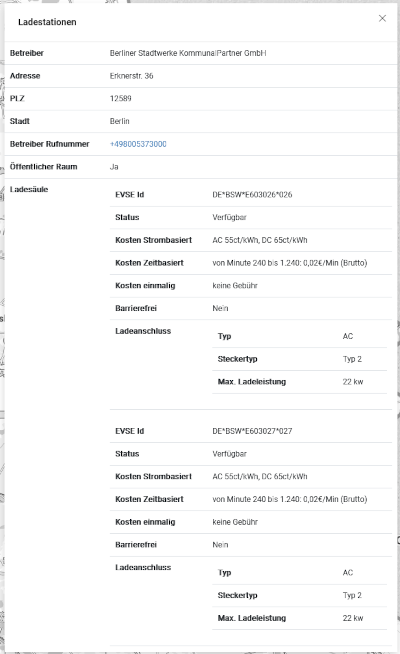
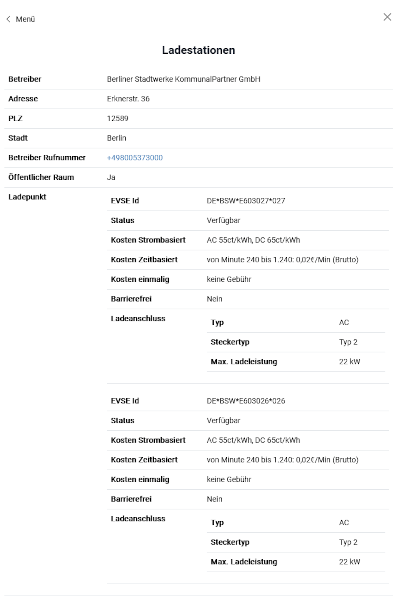
Version 3.x

diff --git a/gfiThemes/complexObject/components/ComplexObject.vue b/gfiThemes/complexObject/components/ComplexObject.vue
@@ -1,14 +1,28 @@
 <script>
-import CompareFeatureIcon from "../../../../src/modules/tools/gfi/components/favoriteIcons/components/CompareFeatureIcon.vue";
-import {getPropertiesWithFullKeys} from "../../../../src/modules/tools/gfi/utils/getPropertiesWithFullKeys.js";
-import {mapAttributes} from "../utils/attributeMapper";
+import beautifyKey from "../../../../src/shared/js/utils/beautifyKey.js";
+import {isImage, isWebLink} from "../../../../src/shared/js/utils/urlHelper.js";
+import {translateKeyWithPlausibilityCheck} from "../../../../src/shared/js/utils/translateKeyWithPlausibilityCheck.js";
+import {isPhoneNumber, getPhoneNumberAsWebLink} from "../../../../src/shared/js/utils/isPhoneNumber.js";
+import {isEmailAddress} from "../../../../src/shared/js/utils/isEmailAddress.js";
+import {isHTML} from "../../../../src/shared/js/utils/isHTML.js";
+import {getPropertiesWithFullKeys} from "../js/getPropertiesWithFullKeys.js";
 import ComplexObjectTable from "./ComplexObjectTable.vue";
+import {mapAttributes} from "../utils/attributeMapper";
 
+/**
+ * The default theme for the get feature info.
+ * @module modules/getFeatureInfo/themes/default/components/DefaultTheme
+ * @vue-prop {Object} feature - The required feature.
+ * @vue-data {Object[]} importedComponents - The imported gfi themes.
+ * @vue-data {Boolean} [showFavoriteIcons=true] - Show favorite icons.
+ * @vue-data {Boolean} [beautifyKeysParam=true] - Specifies if the keys should be displayed more nicely, like first letter cap.
+ * @vue-data {Boolean} [showObjectKeysParam=false] - Show objects key params.
+ * @vue-computed {String} mimeType - Returns the mimeType of the gfi feature
+ */
 export default {
     name: "ComplexObject",
     components: {
-        ComplexObjectTable,
-        CompareFeatureIcon
+        ComplexObjectTable
     },
     props: {
         feature: {
@@ -18,21 +32,25 @@ export default {
     },
     data: () => {
         return {
-            imageLinks: ["bildlink", "link_bild", "Bild", "bild"],
             importedComponents: [],
             showFavoriteIcons: true,
-            maxWidth: "600px",
             beautifyKeysParam: true,
             showObjectKeysParam: false
         };
     },
     computed: {
-
+        /**
+         * Returns the mimeType of the gfi feature.
+         * @returns {String} The mimeType.
+         */
+        mimeType: function () {
+            return this.feature.getMimeType();
+        }
     },
     watch: {
         feature () {
             this.$nextTick(() => {
-                this.setMaxWidth(this.feature.getTheme()?.params);
+                this.addTextHtmlContentToIframe();
                 this.initParams(this.feature.getTheme()?.params);
             });
         }
@@ -41,16 +59,24 @@ export default {
         this.showFavoriteIcons = this.feature.getTheme()?.params?.showFavoriteIcons ?
             this.feature.getTheme().params.showFavoriteIcons : this.showFavoriteIcons;
 
-        this.replacesConfiguredImageLinks();
         this.setImportedComponents();
     },
     mounted () {
         this.$nextTick(() => {
-            this.setMaxWidth(this.feature.getTheme()?.params);
+            this.addTextHtmlContentToIframe();
             this.initParams(this.feature.getTheme()?.params);
         });
     },
     methods: {
+        beautifyKey,
+        isWebLink,
+        isImage,
+        isPhoneNumber,
+        getPhoneNumberAsWebLink,
+        isEmailAddress,
+        isHTML,
+        translateKeyWithPlausibilityCheck,
+
         /**
          * checks if given feature has a function getMappedProperties
          * @param {Object} feature the current feature to check
@@ -60,6 +86,21 @@ export default {
             return typeof feature === "object" && feature !== null && typeof feature.getMappedProperties === "function";
         },
 
+        /**
+         * checks if the given feature has one or more mapped properties
+         * @param {Object} feature the current feature to check
+         * @returns {Boolean} returns true if feature has mapped properties
+         */
+        hasMappedProperties (feature) {
+            return Object.keys(feature.getMappedProperties()).length !== 0;
+        },
+        /**
+         * @param {String} value string to check.
+         * @returns {Boolean} whether the given value includes a pipe.
+         */
+        hasPipe: function (value) {
+            return typeof value === "string" && value.includes("|");
+        },
         /**
          * returns the mapped properties of the given feature or parses the properites through getPropertiesWithFullKeys if the component flag showObjectKeysParam is set
          * @param {Object} feature the current feature
@@ -113,26 +154,32 @@ export default {
         },
 
         /**
-         * Replaces  the configured imageLinks from the gfiTheme.params to the imageLinks.
+         * Adds the text/html content to the iframe.
+         * The onLoad event of the iframe starts with the execution of close().
          * @returns {void}
          */
-        replacesConfiguredImageLinks: function () {
-            const imageLinksAttribute = this.feature.getTheme()?.params?.imageLinks;
+        addTextHtmlContentToIframe: function () {
+            const iframe = document.getElementsByClassName("gfi-iFrame")[0];
 
-            if (Array.isArray(imageLinksAttribute)) {
-                this.imageLinks = imageLinksAttribute;
-            }
-            else if (typeof imageLinksAttribute === "string") {
-                this.imageLinks = [imageLinksAttribute];
+            if (this.mimeType === "text/html" && iframe) {
+                this.setIframeSize(iframe, this.feature.getTheme()?.params);
+                iframe.contentWindow.document.open();
+                iframe.contentWindow.document.write(this.feature.getDocument());
+                iframe.contentWindow.document.close();
             }
         },
 
         /**
-         * Sets the max-width of the default gfiTheme content.
+         * Sets the size of the given iframe.
+         * The iframe size can be overwritten in the config.json at the layer.
+         * @param {Object} iframe The iframe.
          * @param {Object} params The gfi parameters.
          * @returns {void}
          */
-        setMaxWidth: function (params) {
+        setIframeSize: function (iframe, params) {
+            document.getElementsByClassName("gfi-theme-iframe")[0].style.maxWidth = "";
+            iframe.style.width = params?.iframe?.width;
+            iframe.style.height = params?.iframe?.height;
         }
     }
 };
@@ -163,12 +210,12 @@ export default {
     height: 450px;
     resize: both;
 }
-@include media-breakpoint-up(sm) {
+@media (min-width: 768px) {
     .gfi-iFrame {
         width: 450px;
     }
 }
-@include media-breakpoint-down(sm) {
+@media (max-width: 767px) {
     .gfi-iFrame {
         width: 100%;
     }
@@ -176,15 +223,12 @@ export default {
 .gfi-theme-iframe {
     line-height: 1px;
 }
-.gfi-theme-images {
-    max-width: 600px;
-    height: 100%;
-}
 .gfi-theme-images-image {
     margin: auto;
     display: block;
     text-align: center;
     color: $black;
+    width: 100%;
 }
 .favorite-icon-container {
     display: flex;

diff --git a/gfiThemes/complexObject/js/getPropertiesWithFullKeys.js b/gfiThemes/complexObject/js/getPropertiesWithFullKeys.js
@@ -1,0 +1,84 @@
+/**
+ * Helper functions for properties with full keys.
+ * @module modules/getFeatureInfo/themes/default/js/getPropertiesWithFullKeys
+ */
+
+/**
+ * Concats the keys of the given structure (in depth) to be used as gfiAttribute keys (including @-paths).
+ * @param {Object} properties the properties of the feature, may be the mapped properties
+ * @param {String} [prefix="@"] the prefix to use for object paths
+ * @param {String} [delimitor="."] the delimitor to use for object paths
+ * @param {Number} [depthBarrier=20] the depth barrier to avoid infinit recurtions
+ * @returns {Object|Boolean} a flat key-value object with concatenated keys to address the attributes in config.json or false on error
+ */
+function getPropertiesWithFullKeys (properties, prefix = "@", delimitor = ".", depthBarrier = 20) {
+    if (
+        typeof properties !== "object" || properties === null
+        || typeof depthBarrier !== "number" || depthBarrier < 0
+        || typeof prefix !== "string"
+        || typeof delimitor !== "string"
+    ) {
+        return false;
+    }
+    const result = {};
+
+    for (const [key, value] of Object.entries(properties)) {
+        if (typeof value === "object" && value !== null) {
+            getPropertiesWithFullKeysHelper(value, result, prefix + escapeTerm(key), 0, depthBarrier, delimitor);
+        }
+        else {
+            result[key] = value;
+        }
+    }
+
+    return result;
+}
+
+/**
+ * Recursive helper function for getPropertiesWithFullKeys, used for found objects in properties.
+ * @param {Object} obj the object to follow
+ * @param {Object} result the result by ref
+ * @param {String} pathPrefix the prefix of the path at the depth to build a one dimensional path structure
+ * @param {String} depth the current depth of the recursion
+ * @param {Number} depthBarrier the depth barrier to avoid infinit recurtions
+ * @param {String} delimitor the delimitor to use for object paths
+ * @returns {void}
+ */
+function getPropertiesWithFullKeysHelper (obj, result, pathPrefix, depth, depthBarrier, delimitor) {
+    if (depth >= depthBarrier) {
+        return;
+    }
+    for (const [key, value] of Object.entries(obj)) {
+        if (typeof value === "object" && value !== null) {
+            getPropertiesWithFullKeysHelper(value, result, pathPrefix + delimitor + escapeTerm(key), depth + 1, depthBarrier, delimitor);
+        }
+        else {
+            result[pathPrefix + delimitor + escapeTerm(key)] = value;
+        }
+    }
+}
+
+/**
+ * Escapes all found terms with an escape sign.
+ * @param {String} word the word to look through
+ * @param {String} [term="."] the term to escape
+ * @param {String} [escapeSign="\\"] the escape sign to use
+ * @returns {String} the resulting word with escaped terms
+ */
+function escapeTerm (word, term = ".", escapeSign = "\\") {
+    if (typeof word !== "string") {
+        return word;
+    }
+    const len = word.length;
+    let result = "";
+
+    for (let i = 0; i < len; i++) {
+        if (word[i] === term) {
+            result += escapeSign;
+        }
+        result += word[i];
+    }
+    return result;
+}
+
+export {getPropertiesWithFullKeys, escapeTerm};

diff --git a/gfiThemes/complexObject/components/ComplexObjectRow.vue b/gfiThemes/complexObject/components/ComplexObjectRow.vue
@@ -1,12 +1,13 @@
 <script>
-import beautifyKey from "../../../../src/utils/beautifyKey.js";
+import beautifyKey from "../../../../src/shared/js/utils/beautifyKey.js";
 import ComplexObjectSimple from "./ComplexObjectSimple.vue";
-import {translateKeyWithPlausibilityCheck} from "../../../../src/utils/translateKeyWithPlausibilityCheck";
+import {translateKeyWithPlausibilityCheck} from "../../../../src/shared/js/utils/translateKeyWithPlausibilityCheck";
+import { defineAsyncComponent } from 'vue'
 
 
 export default {
     name: "ComplexObjectRow",
-    components: {ComplexObjectTable: () => import("./ComplexObjectTable.vue"), ComplexObjectSimple},
+    components: {ComplexObjectTable: defineAsyncComponent(() => import("./ComplexObjectTable.vue")), ComplexObjectSimple},
     props: {
         propertyKey: {
             type: String,

diff --git a/gfiThemes/complexObject/components/ComplexObjectSimple.vue b/gfiThemes/complexObject/components/ComplexObjectSimple.vue
@@ -1,9 +1,9 @@
 <script>
-import beautifyKey from "../../../../src/utils/beautifyKey.js";
-import {isWebLink} from "../../../../src/utils/urlHelper.js";
-import {isPhoneNumber, getPhoneNumberAsWebLink} from "../../../../src/utils/isPhoneNumber.js";
-import {isEmailAddress} from "../../../../src/utils/isEmailAddress.js";
-import {isHTML} from "../../../../src/utils/isHTML.js";
+import beautifyKey from "../../../../src/shared/js/utils/beautifyKey.js";
+import {isWebLink} from "../../../../src/shared/js/utils/urlHelper.js";
+import {isPhoneNumber, getPhoneNumberAsWebLink} from "../../../../src/shared/js/utils/isPhoneNumber.js";
+import {isEmailAddress} from "../../../../src/shared/js/utils/isEmailAddress.js";
+import {isHTML} from "../../../../src/shared/js/utils/isHTML.js";
 
 export default {
     name: "ComplexObjectSimple",

diff --git a/README.md b/README.md
@@ -6,7 +6,7 @@ Masterportal Addon ComplexObject (gfiTheme)
 Das Addon bietet die Möglichkeit im GFI-Fenster verschachtelte Datenstrukturen zu visualisieren, die sich nicht in der einfachen Tabellenstruktur des Default-Theme abbilden lassen.
 Hierfür wurden die GFI-Attribute um die Typen Object und Array erweitert.
 
-Das Plugin ist mit der Masterportal Version 2.42.0 getestet.
+Das Plugin ist mit der Masterportal Version 3.5.1 getestet.
 
 Das Addon im Einsatz kann in der [Digitalen Plattform Stadtverkehr Berlin](https://viz.berlin.de/site/_masterportal/e-infoplattform/) betrachtet werden.
 Die dazu passende [Konfiguration](https://github.com/digitale-plattform-stadtverkehr-berlin/masterportal-dps-config/blob/master/resources/services-internet.json) steht ebenfalls zu Verfügung 
@@ -25,7 +25,7 @@ Die dazu passende [Konfiguration](https://github.com/digitale-plattform-stadtver
       "beschilderungVorhanden": "Beschilderung vorhanden",
       "ladeSaeulen": {
         "type": "array",
-        "name": "Ladesäule",
+        "name": "Ladepunkt",
         "elements": {
           "type": "object",
           "children": {
@@ -46,7 +46,7 @@ Die dazu passende [Konfiguration](https://github.com/digitale-plattform-stadtver
                   "steckertyp": "Steckertyp",
                   "maxLadeleistungKw": {
                     "name": "Max. Ladeleistung",
-                    "suffix": "kw"
+                    "suffix": "kW"
                   }
                 }
               }
